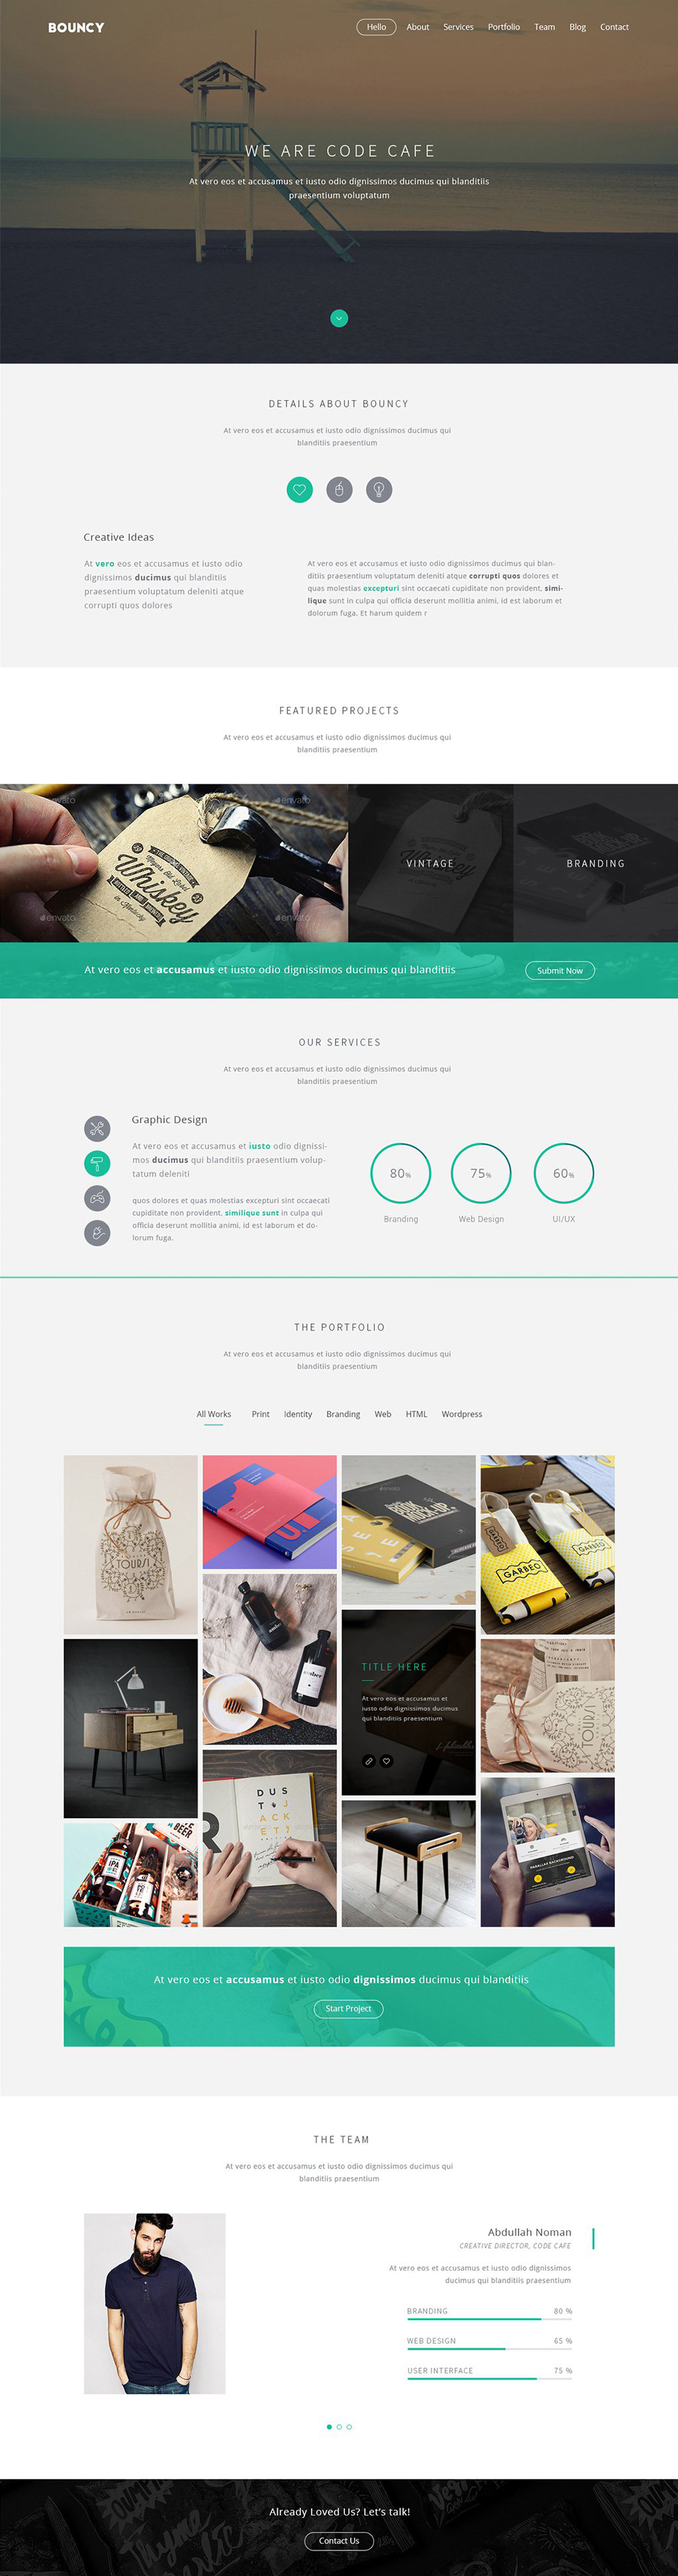
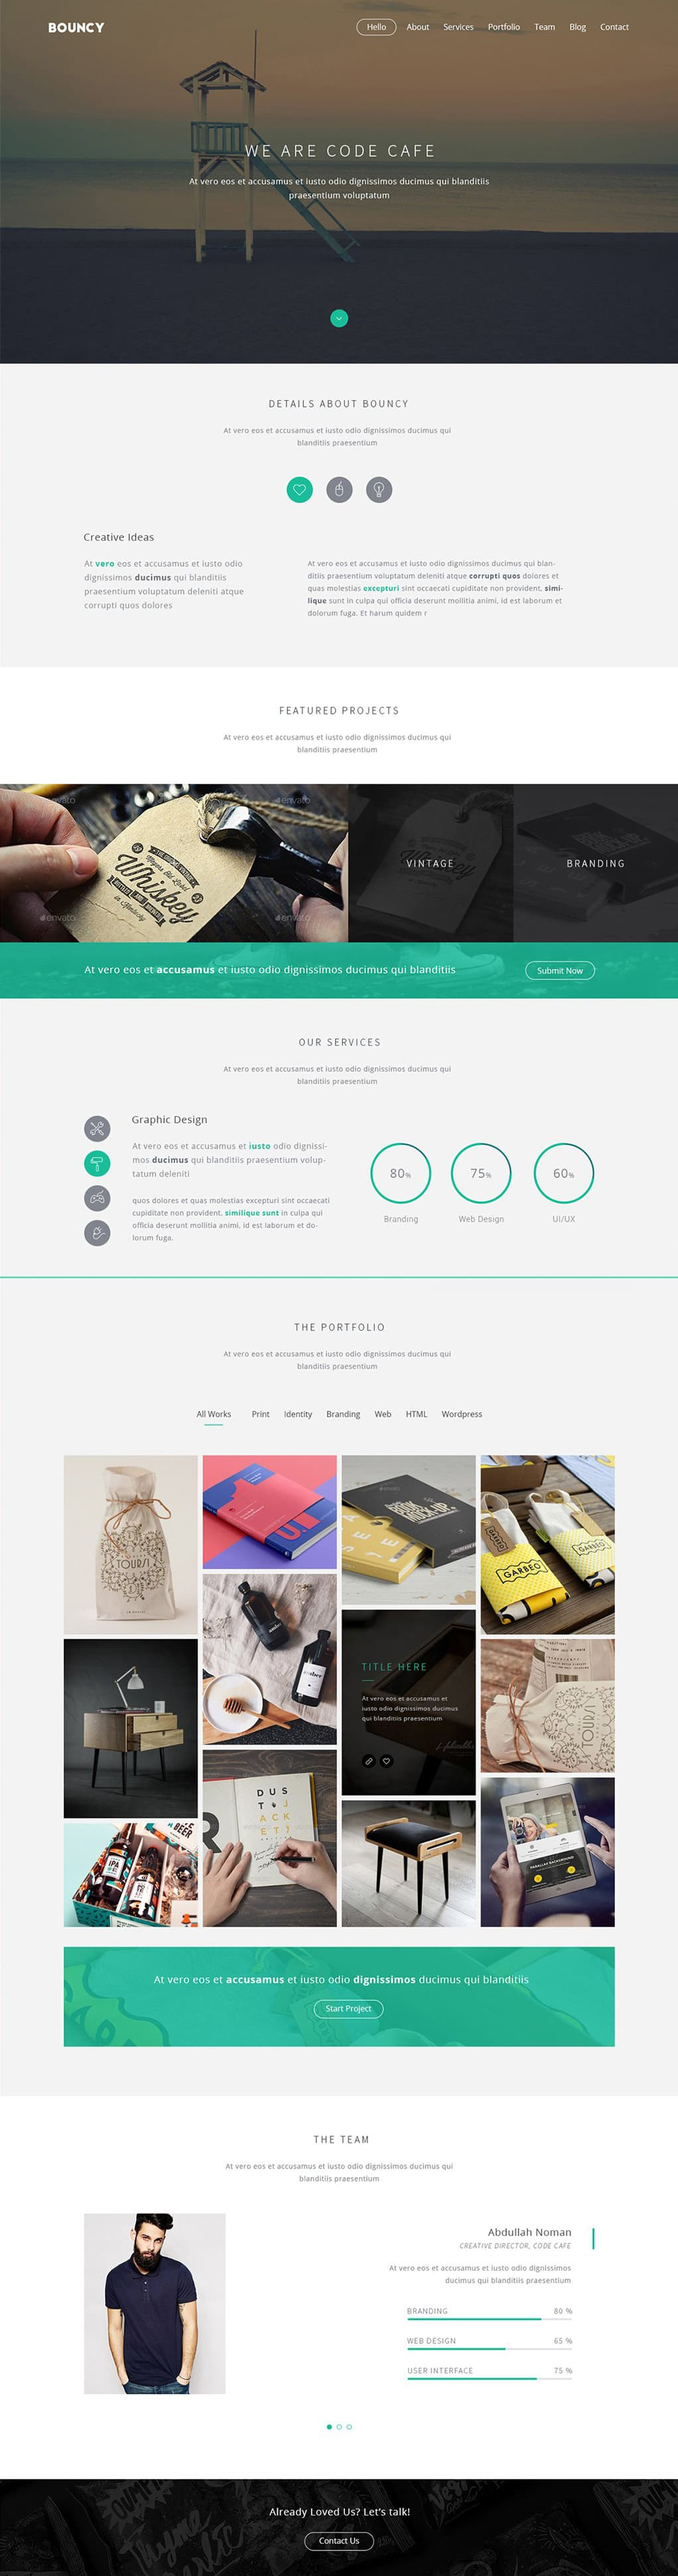
optimisatsyiafoto

Changed region(s): [[0.6977, 0.5922, 0.8796, 0.6234], [0.1213, 0.7169, 0.2427, 0.7481], [0.4247, 0.5922, 0.455, 0.6234]]

diff --git a/style.css b/style.css
@@ -62,7 +62,7 @@ a:hover {
 #loading{
     width: 100%;
     height: 100%;
-    background-image: url(./img/header-bg.jpg);
+    background-image: url(./img/header-bgload.jpg);
     background-size: cover;
     background-repeat: no-repeat;
     background-position: center;
@@ -548,7 +548,7 @@ p {
 #fpimg {
     width: 50%;
     height: 100%;
-    background-image: url(./img/fpimg.png);
+    background-image: url(./img/fpimg.jpg);
     background-size: cover;
     background-repeat: no-repeat;
 }
@@ -563,7 +563,7 @@ p {
 #fpimg2 {
     width: 25%;
     height: 100%;
-    background-image: url(./img/fpimg2.png);
+    background-image: url(./img/fpimg2.jpg);
     background-size: cover;
     background-repeat: no-repeat; 
     background-position: center;
@@ -588,7 +588,7 @@ p {
 #fpimg3 {
     width: 25%;
     height: 100%;
-    background-image: url(./img/fpimg3.png);
+    background-image: url(./img/fpimg3.jpg);
     background-size: cover;
     background-repeat: no-repeat;
     background-position: center;
@@ -650,9 +650,10 @@ p {
 }
 
 .inbox1 {
-    width: 50%;
+    width: 60%;
     height: 100%;
     display: flex;
+    gap: 8%;
 }
 
 #graphic {
@@ -669,12 +670,13 @@ p {
 }
 
 #buttonleft {
-    width: 15%;
+    width: 10%;
     height: 100%;
     display: flex;
-    flex-wrap: wrap;
+    flex-wrap: nowrap;
     align-content: space-around;
-    justify-content: flex-start;
+    justify-content: space-around;
+    flex-direction: column;
 }
 
 #textbutton {
@@ -890,7 +892,7 @@ p {
 #foto11 {
     width: 100%;
     height: 38%;
-    background-image: url(./img/foto11.png);
+    background-image: url(./img/foto11.jpg);
     background-size: cover;
     background-repeat: no-repeat;
     background-position: center;
@@ -898,7 +900,7 @@ p {
 #foto12 {
     width: 100%;
     height: 38%;
-    background-image: url(./img/foto12.png);
+    background-image: url(./img/foto12.jpg);
     background-size: cover;
     background-repeat: no-repeat;
     background-position: center;
@@ -907,7 +909,7 @@ p {
 #foto13 {
     width: 100%;
     height: 20%;
-    background-image: url(./img/foto13.png);
+    background-image: url(./img/foto13.jpg);
     background-size: cover;
     background-repeat: no-repeat;
     background-position: center;
@@ -916,7 +918,7 @@ p {
 #foto21 {
     width: 100%;
     height: 24%;
-    background-image: url(./img/foto21.png);
+    background-image: url(./img/foto21.jpg);
     background-size: cover;
     background-repeat: no-repeat;
     background-position: center;
@@ -924,7 +926,7 @@ p {
 #foto22 {
     width: 100%;
     height: 36%;
-    background-image: url(./img/foto22.png);
+    background-image: url(./img/foto22.jpg);
     background-size: cover;
     background-repeat: no-repeat;
     background-position: 81.5% 0;
@@ -933,7 +935,7 @@ p {
 #foto23 {
     width: 100%;
     height: 36%;
-    background-image: url(./img/foto23.png);
+    background-image: url(./img/foto23.jpg);
     background-size: cover;
     background-repeat: no-repeat;
     background-position: 76% 0;
@@ -942,7 +944,7 @@ p {
 #foto31 {
     width: 100%;
     height: 32%;
-    background-image: url(./img/foto31.png);
+    background-image: url(./img/foto31.jpg);
     background-size: cover;
     background-repeat: no-repeat;
     background-position: 76% 0;
@@ -950,7 +952,7 @@ p {
 #foto32 {
     width: 100%;
     height: 38%;
-    background-image: url(./img/foto32.png);
+    background-image: url(./img/foto32.jpg);
     background-size: cover;
     background-repeat: no-repeat;
     background-position: center;
@@ -959,7 +961,7 @@ p {
 #foto33 {
     width: 100%;
     height: 26%;
-    background-image: url(./img/foto33.png);
+    background-image: url(./img/foto33.jpg);
     background-size: cover;
     background-repeat: no-repeat;
     background-position: center;
@@ -968,7 +970,7 @@ p {
 #foto41 {
     width: 100%;
     height: 40%;
-    background-image: url(./img/foto41.png);
+    background-image: url(./img/foto41.jpg);
     background-size: cover;
     background-repeat: no-repeat;
     background-position: -155px 0px;
@@ -977,7 +979,7 @@ p {
 #foto42 {
     width: 100%;
     height: 25%;
-    background-image: url(./img/foto42.png);
+    background-image: url(./img/foto42.jpg);
     background-size: cover;
     background-repeat: no-repeat;
     background-position: center;
@@ -986,7 +988,7 @@ p {
 #foto43 {
     width: 100%;
     height: 31%;
-    background-image: url(./img/foto43.png);
+    background-image: url(./img/foto43.jpg);
     background-size: cover;
     background-repeat: no-repeat;
     background-position: 0px 0px;
@@ -1225,7 +1227,7 @@ p {
 
 #infoman {
     width: 75%;
-    height: 6.5%;
+    height: 7.5%;
     margin:3% -2% 0 0;
 }
 

diff --git a/index.html b/index.html
@@ -103,7 +103,7 @@
                         <circle id="fon" cx="80" cy="80" r="55" stroke="#19d18c" stroke-width="5" stroke-dasharray ="397" stroke-dashoffset="-64" fill="none" />
                         </g>
                         <text class="circle" fill="#7c7878" x="60" y="85">80</text>
-                        <text class="proc" fill="#7c7878" x="88" y="85">%</text>
+                        <text class="proc" fill="#7c7878" x="92" y="85">%</text>
                     </svg>
                     <svg viewBox="0 0 160 160">
                         <g transform="rotate(-90 80 80)">
@@ -111,7 +111,7 @@
                         <circle id="fon" cx="80" cy="80" r="55" stroke="#19d18c" stroke-width="5" stroke-dasharray ="397" stroke-dashoffset="-86" fill="none" />
                         </g>
                         <text class="circle" fill="#7c7878" x="60" y="85">75</text>
-                        <text class="proc" fill="#7c7878" x="88" y="85">%</text>
+                        <text class="proc" fill="#7c7878" x="92" y="85">%</text>
                     </svg>
                     <svg viewBox="0 0 160 160">
                         <g transform="rotate(-90 80 80)">
@@ -119,7 +119,7 @@
                         <circle id="fon" cx="80" cy="80" r="55" stroke="#19d18c" stroke-width="5" stroke-dasharray ="397" stroke-dashoffset="-118" fill="none" />
                         </g>
                         <text class="circle" fill="#7c7878" x="60" y="85">60</text>
-                        <text class="proc" fill="#7c7878" x="88" y="85">%</text>
+                        <text class="proc" fill="#7c7878" x="92" y="85">%</text>
                     </svg>
                 </div>
                 <div class="circlebox2">
